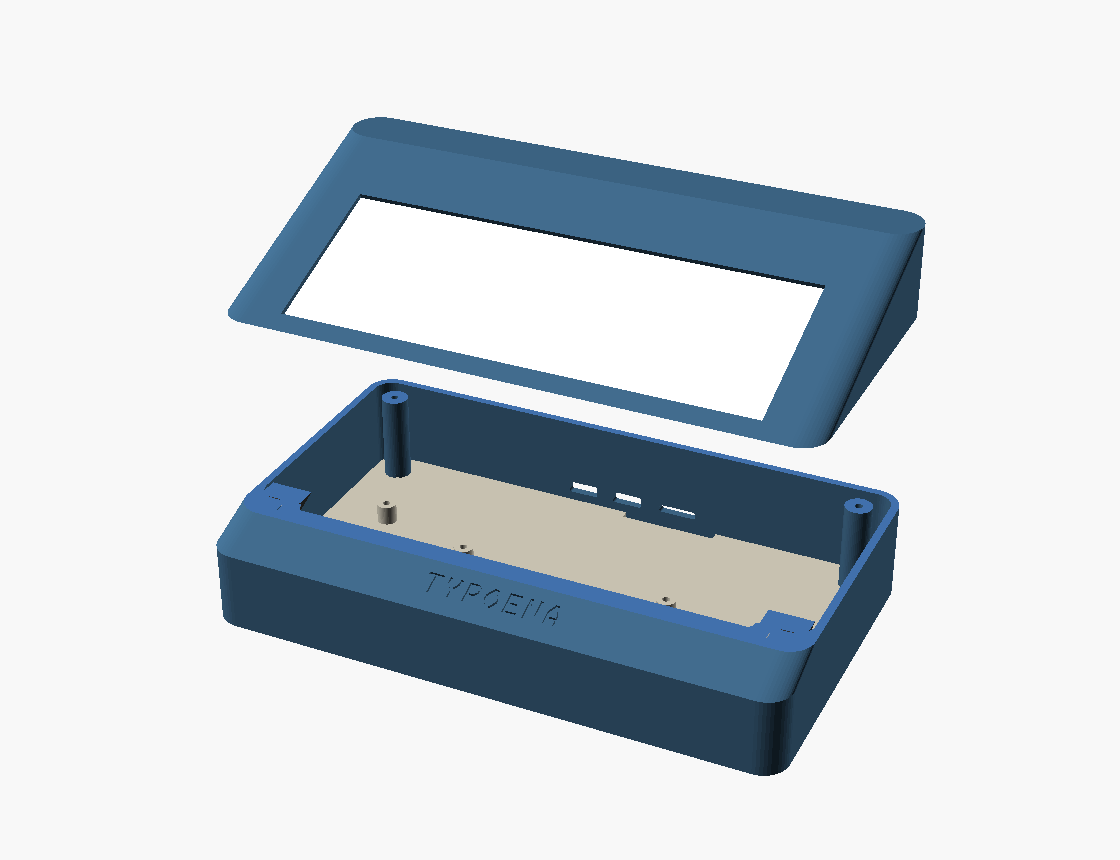
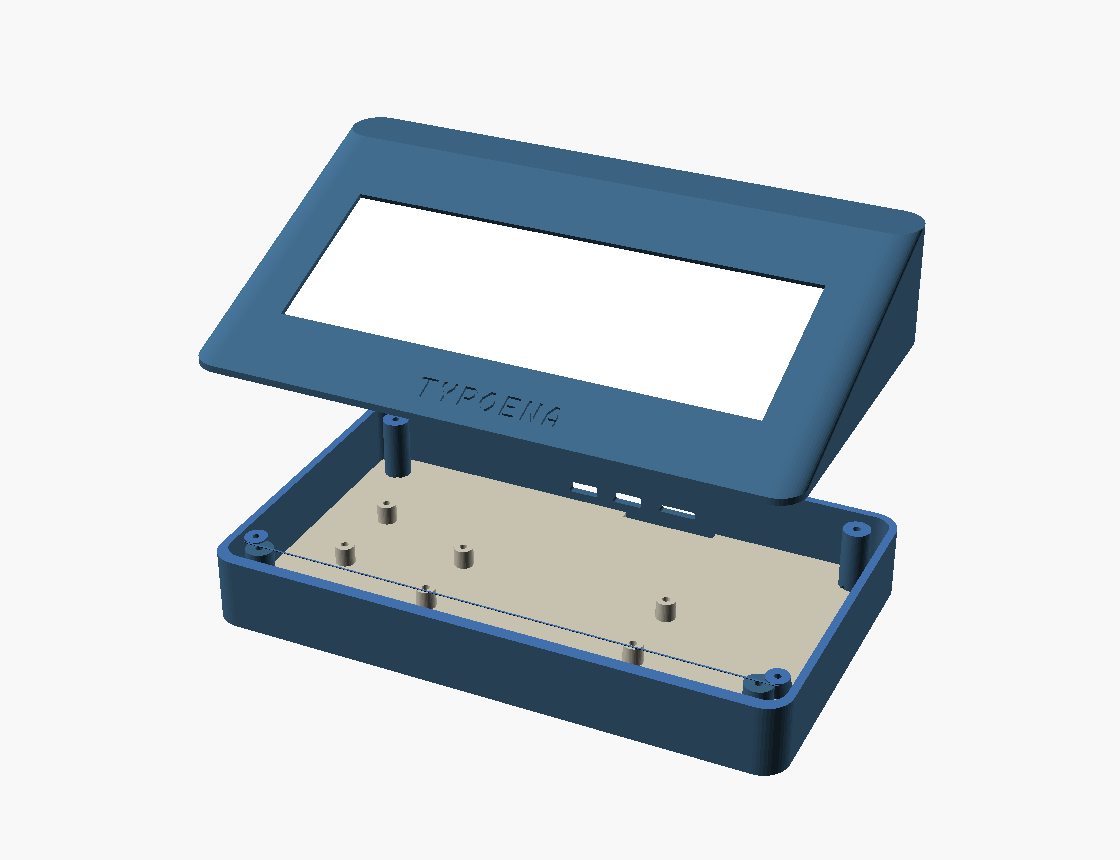
docs(case): document plan_up/plan_down and add their renders

Changed region(s): [[0.1562, 0.3628, 0.8125, 0.8465], [0.7812, 0.393, 0.8125, 0.4535]]

diff --git a/hardware/case/README.md b/hardware/case/README.md
@@ -42,7 +42,8 @@ openscad -o body.stl -D 'show="body"' typoena-case.scad
 ```
 
 `show` accepts `assembled` · `body` · `bracket` · `baseplate` · `print_plate` ·
-`section` (vertical cut) · `plan` (horizontal cut into the cavity).
+`section` (vertical cut) · `plan` (exploded horizontal) · `plan_up` / `plan_down`
+(each half on its own).
 
 ## Dimensions
 
@@ -125,6 +126,12 @@ standoffs left under the FPC exit, the two back corner posts, and the three
 port openings in the back wall.
 
 ![Exploded plan section: deck/screen half lifted above the cavity half — standoffs, corner posts, back-wall ports](renders/plan.png)
+
+Or inspect each half alone — `plan_up` (the deck/lid, shown from below) and
+`plan_down` (the cavity):
+
+![Top half (plan_up) — deck underside: the screen in its recess and the bracket bosses](renders/plan-up.png)
+![Bottom half (plan_down) — the cavity: standoffs, corner posts, back-wall ports](renders/plan-down.png)
 
 ### Assembly order
 